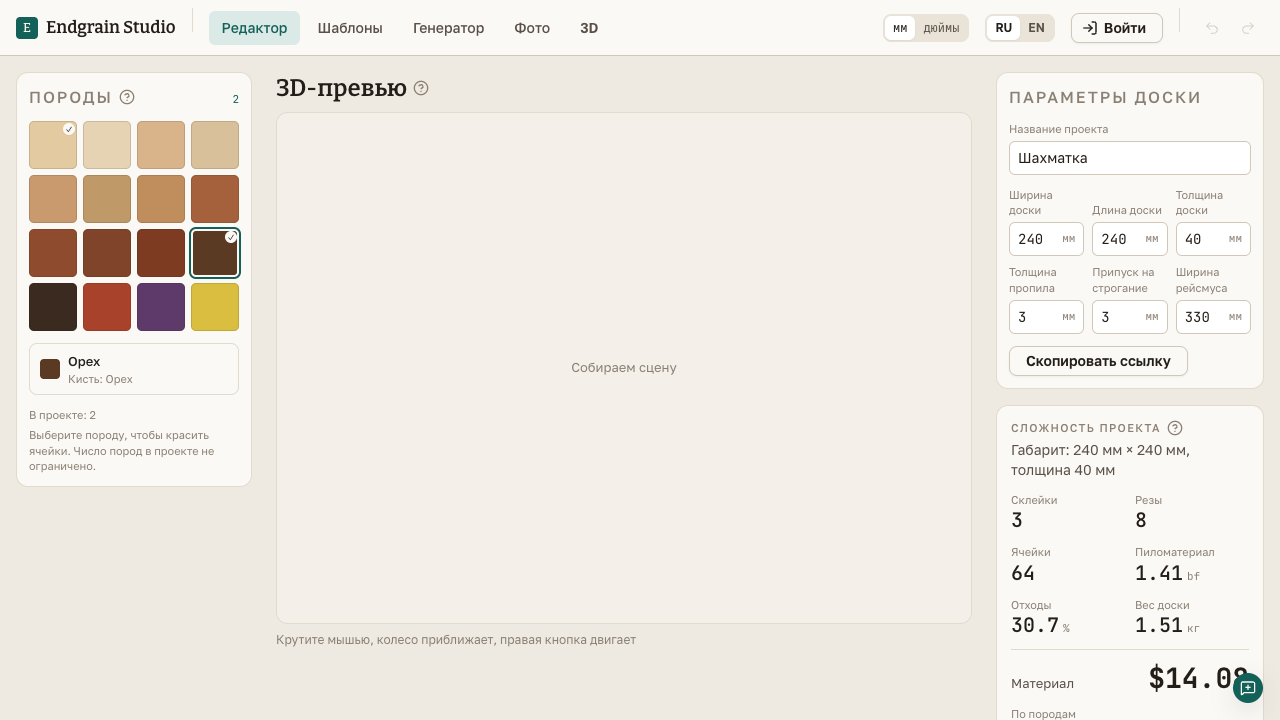
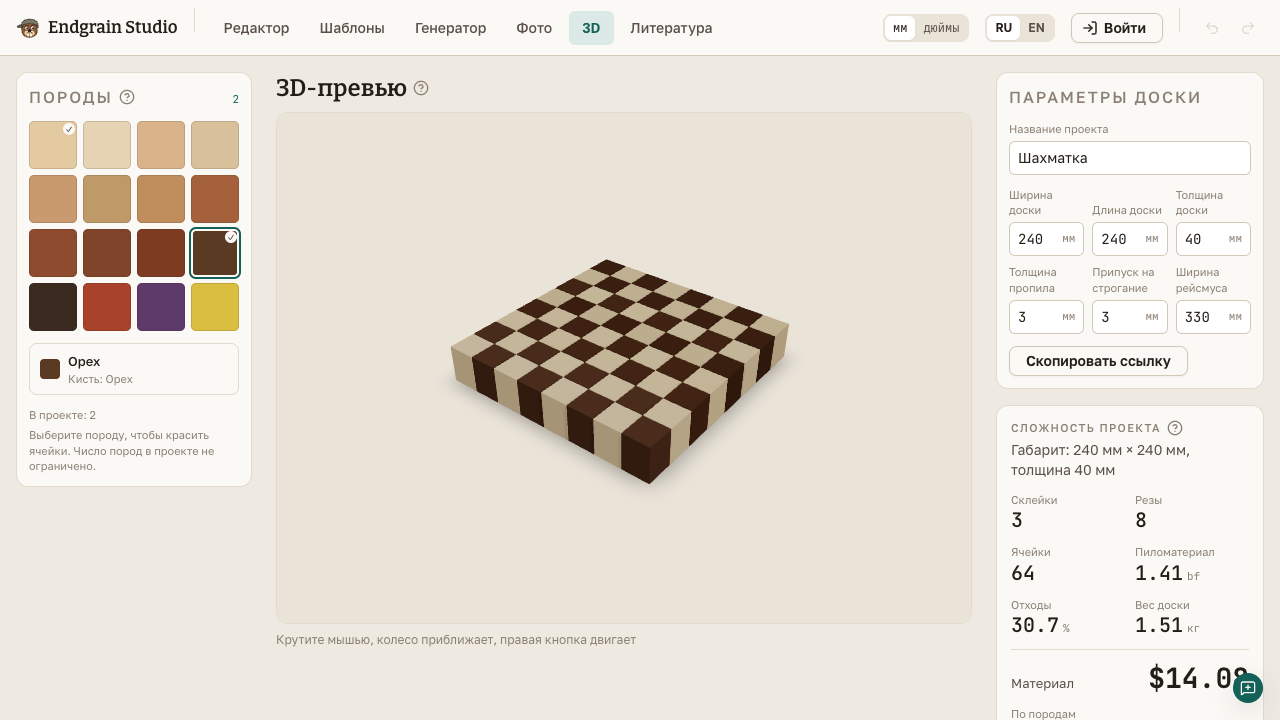
фаза 8, задача 6: e2e лендинга и партнёрских блоков, финальные гейты
Расширены e2e/landing.spec.ts (слоган, локаль, витрина узоров, CTA, подвал,
prefers-reduced-motion), e2e/affiliate.spec.ts (полка на вкладке шаблонов) и
e2e/visual.spec.ts (вкладка books в визуальном смоуке).

Перегенерированы скриншоты студии в public/landing/shots/: в e2e/shots.spec.ts
добавлено ожидание канваса R3F перед снимком вкладки 3D, раньше view3d.png
ловил лоадер "Собираем сцену" вместо готовой доски.

Changed region(s): [[0.3438, 0.3667, 0.625, 0.7028], [0.0, 0.0, 0.375, 0.0611], [0.4062, 0.0, 0.5625, 0.0611]]

diff --git a/e2e/shots.spec.ts b/e2e/shots.spec.ts
@@ -19,6 +19,21 @@ test.describe('скриншоты лендинга', () => {
       await page.goto('/')
       await page.getByTestId(`tab-${view.tab}`).click()
       await expect(page.getByTestId(view.marker)).toBeVisible()
+
+      if (view.tab === 'view3d') {
+        // R3F грузится динамически (см. Board3DPanel.tsx): пока идёт lazy-import сцены,
+        // на месте канваса стоит скелет с надписью "Собираем сцену". Снимок без ожидания
+        // канваса ловит именно лоадер, а не готовую 3D-доску.
+        const canvas = page.locator('[data-testid="view3d"] canvas')
+        await expect(canvas).toBeVisible({ timeout: 30_000 })
+        await expect(async () => {
+          const box = await canvas.boundingBox()
+          expect(box?.width ?? 0).toBeGreaterThan(200)
+          expect(box?.height ?? 0).toBeGreaterThan(200)
+        }).toPass({ timeout: 10_000 })
+      }
+
+      await page.evaluate(() => document.fonts.ready)
       await page.screenshot({ path: `public/landing/shots/${view.file}` })
     })
   }

diff --git a/e2e/affiliate.spec.ts b/e2e/affiliate.spec.ts
@@ -15,6 +15,15 @@ test('полка инструментов сворачивается и несё
   await expect(page.getByTestId('affiliate-disclosure')).toContainText('Amazon')
 })
 
+test('полка инструментов есть и на вкладке шаблонов, тоже свёрнута', async ({ page }) => {
+  await openStudio(page)
+  await page.getByTestId('tab-templates').click()
+  await expect(page.getByTestId('template-gallery')).toBeVisible()
+  const shelf = page.getByTestId('affiliate-shelf')
+  await expect(shelf).toBeVisible()
+  await expect(page.getByTestId('affiliate-disclosure')).toBeHidden()
+})
+
 test('вкладка литературы показывает восемь книг с партнёрскими ссылками', async ({ page }) => {
   await openStudio(page)
   await page.getByTestId('tab-books').click()

diff --git a/e2e/visual.spec.ts b/e2e/visual.spec.ts
@@ -15,6 +15,7 @@ const TABS: readonly { readonly tab: string; readonly marker: string }[] = [
   { tab: 'generate', marker: 'generator-panel' },
   { tab: 'photo', marker: 'photo-panel' },
   { tab: 'view3d', marker: 'view3d' },
+  { tab: 'books', marker: 'literature-section' },
 ]
 
 for (const { tab, marker } of TABS) {
